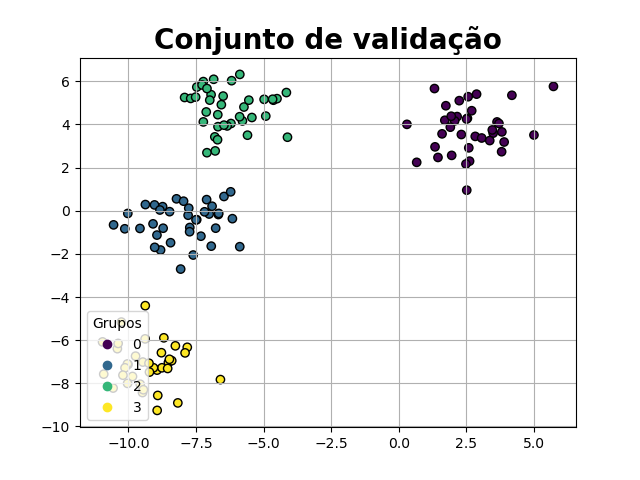
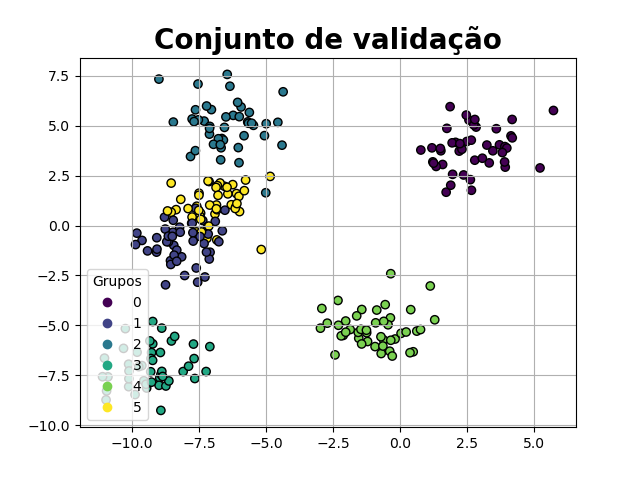
correções do reame, adição do readme c_means

diff --git a/03-C_means/utils.py b/03-C_means/utils.py
@@ -1,19 +1,26 @@
 import numpy as np
 import matplotlib.pyplot as plt
 
+def display_samples_with_centers(input: np.array, centers, membership_matrix: np.array, title, show: bool = False, save_path: str = None):
+    """
+    Exibe os exemplos com os centros de um algoritmo de clustering.
 
-def display_samples_with_centers(
-    input : np.array, 
-    centers, 
-    membership_matrix : np.array,
-    title,
-    show : bool = False,
-    save_path : str = None 
-    ):
+    Parâmetros:
+        - input (np.array): Array com os exemplos.
+        - centers: Array com as coordenadas dos centros.
+        - membership_matrix (np.array): Matriz de pertinência dos exemplos em relação aos centros.
+        - title (str): Título do gráfico.
+        - show (bool): Indica se o gráfico deve ser exibido.
+        - save_path (str): Caminho para salvar a figura.
+
+    Retorna:
+        Nenhum.
+
+    """
     plt.clf()
     _, ax = plt.subplots()
     groups = ax.scatter(input[:, 0], input[:, 1], marker='o', c=membership_matrix, edgecolor='k')
-    ax.scatter(centers[:, 0], centers[:, 1], marker='^',c='r', label="Centros", s=100, edgecolor='k')
+    ax.scatter(centers[:, 0], centers[:, 1], marker='^', c='r', label="Centros", s=100, edgecolor='k')
     plt.title(title, fontsize=20, fontweight="bold")
     ax.grid(True)
     legend2 = ax.legend(loc="upper right")
@@ -26,15 +33,28 @@ def display_samples_with_centers(
     if show:
         plt.show()
 
-def display_samples(input : np.array, output:np.array, title : str, path_to_save : str = None, show : bool = False) -> None:
-    plt.clf()        
-    groups = plt.scatter(input[:,0], input[:,1], marker='o', c=output,edgecolor='k')
-    plt.title(title, fontsize=20, fontweight ="bold")
+def display_samples(input: np.array, output: np.array, title: str, path_to_save: str = None, show: bool = False):
+    """
+    Exibe os exemplos de um algoritmo de clustering.
+
+    Parâmetros:
+        - input (np.array): Array com os exemplos.
+        - output (np.array): Array com as saídas do algoritmo (rótulos).
+        - title (str): Título do gráfico.
+        - path_to_save (str): Caminho para salvar a figura.
+        - show (bool): Indica se o gráfico deve ser exibido.
+
+    Retorna:
+        Nenhum.
+
+    """
+    plt.clf()
+    groups = plt.scatter(input[:, 0], input[:, 1], marker='o', c=output, edgecolor='k')
+    plt.title(title, fontsize=20, fontweight="bold")
     plt.grid(True)
-    plt.legend(*groups.legend_elements(),loc="lower left", title="Grupos")
-    
+    plt.legend(*groups.legend_elements(), loc="lower left", title="Grupos")
+
     if path_to_save is not None:
         plt.savefig(path_to_save)
     if show:
         plt.show()
-

diff --git a/03-C_means/C_means.py b/03-C_means/C_means.py
@@ -284,47 +284,3 @@ class C_Means:
             print(f"\t\tCentro {i+1} : {center}")
         
 
-
-    def show(self, path: str, x: np.array, show: bool) -> None:
-        """
-        Gera e salva visualizações dos dados e dos centros em diferentes épocas.
-
-        Parâmetros:
-        - path (str): Caminho para salvar as visualizações.
-        - x (np.array): Array de entrada com as amostras.
-        - show (bool): Indica se as visualizações devem ser exibidas na tela.
-        """ 
-
-        for epoch in range(len(self.historic['centers']) - 1):
-            plt.clf()
-            _, ax = plt.subplots()
-            groups = ax.scatter(x[:, 0], x[:, 1], marker='o', c=self.historic['membership_matrix'][epoch], edgecolor='k')
-            ax.scatter(self.historic['centers'][epoch][:, 0], self.historic['centers'][epoch][:, 1], marker='^',
-                    c='r', label="Centros", s=100, edgecolor='k')
-            plt.title(f"Época: {epoch}", fontsize=20, fontweight="bold")
-            ax.grid(True)
-            legend2 = ax.legend(loc="upper right")
-            ax.add_artist(legend2)
-            legend1 = ax.legend(*groups.legend_elements(), loc="lower left", title="Grupos")
-            ax.add_artist(legend1)
-
-            plt.savefig(path + "epoch" + str(epoch) + ".png")
-            if show:
-                plt.show()
-
-        plt.clf()
-        y = self.membership_matrix
-        _, ax = plt.subplots()
-        groups = ax.scatter(x[:, 0], x[:, 1], marker='o', c=y, edgecolor='k')
-        ax.scatter(self.centers[:, 0], self.centers[:, 1], label="Centros", marker='^', c='r', s=100, edgecolor='k')
-        plt.title("Resultado não supervisionado" if not self.supervised else "Resultado supervisionado",
-                fontsize=20, fontweight="bold")
-        ax.grid(True)
-        legend2 = ax.legend(loc="upper right")
-        ax.add_artist(legend2)
-        legend1 = ax.legend(*groups.legend_elements(), loc="lower left", title="Grupos")
-        ax.add_artist(legend1)
-        plt.savefig(path + "2_result.png")
-        if show:
-            plt.show()
-

diff --git a/03-C_means/main.py b/03-C_means/main.py
@@ -6,9 +6,9 @@ from utils import display_samples
 from utils import display_samples_with_centers
 
 # Definição da base de dados
-n_centers = 4
+n_centers = 6
 test_percentage = 0.3
-samples = 500
+samples = 900
 desv_pad = 1
 random_seed = 3212
 
@@ -45,7 +45,7 @@ def runs(model):
         input=x_test,
         membership_matrix=Y,
         centers=model.centers,
-        title="Resultado conjunto de testes",
+        title="Validação " + ("supervisionada" if model.supervised else "não supervisionada"),
         show=False,
         save_path="Results/" + ("supervised" if model.supervised else "unsupervised") + "/test"
     )

diff --git a/03-C_means/readme.md b/03-C_means/readme.md
@@ -1,0 +1,120 @@
+# C-Means
+
+O C-Means é um algoritmo de clustering amplamente utilizado na área de aprendizado de máquina e análise de dados. Ele é utilizado para agrupar dados não rotulados em grupos ou clusters com base nas características dos dados.
+
+### Descrição
+
+Esse é um código que implementa o algoritmo C-Means em Python. O algoritmo C-Means é uma técnica de clustering, que divide um conjunto de dados em clusters, de acordo com a similaridade entre os pontos. O algoritmo utiliza a média dos valores dos atributos dos pontos para definir os centros dos clusters.
+
+O arquivo C_means.py contém a implementação da classe C_Means, que possui métodos para realizar o treinamento do modelo e fazer predições. O método fit é responsável por treinar o modelo com base nos dados de entrada. O método predict recebe as coordenadas de um ponto e retorna o índice do centro mais próximo desse ponto. O método predict_group realiza a predição dos grupos (rótulos) para um conjunto de amostras e compara com os rótulos esperados.
+
+O arquivo main.py utiliza a classe C_Means para realizar o treinamento e a visualização dos resultados. Ele gera um conjunto de amostras sintéticas com a função make_blobs do sklearn.datasets e separa essas amostras em conjuntos de treinamento e teste com a função train_test_split do sklearn.model_selection. Em seguida, o código chama a função runs para treinar o modelo e exibir os resultados em gráficos.
+
+Os resultados são exibidos em gráficos usando as bibliotecas matplotlib.pyplot e as funções display_samples e display_samples_with_centers do módulo utils. O código também salva as imagens geradas em arquivos no diretório Results.
+
+No geral, o código implementa o algoritmo C-Means e mostra como utilizá-lo para fazer clustering em um conjunto de dados.
+
+
+O repositório contém a implementação do algoritmo C-Means na linguagem Python. O algoritmo pode ser executado tanto no modo supervisionado quanto no modo não supervisionado. No modo supervisionado, os rótulos dos dados são fornecidos durante o treinamento, enquanto no modo não supervisionado, o algoritmo agrupa os dados sem a necessidade de rótulos.
+
+A implementação inclui as seguintes funcionalidades:
+
+- Treinamento do modelo usando dados de entrada.
+- Predição dos grupos (rótulos) para um conjunto de amostras.
+- Cálculo da acurácia da classificação.
+- Visualização dos resultados em diferentes épocas.
+- Exibição de informações sobre o modelo, como o número de épocas até a convergência e a posição final dos centros.
+
+### Estrutura do Projeto
+
+- `C_means.py`: Este arquivo contém a implementação do algoritmo C-Means. Nele, você pode encontrar a classe C_Means com os métodos necessários para treinar o modelo, fazer previsões, exibir informações sobre o modelo e visualizar os resultados. É o arquivo central do seu algoritmo.
+
+- `main.py`: Este arquivo contém um exemplo de uso do algoritmo C-Means. Nele, você pode gerar dados de amostra aleatórios, separá-los em conjuntos de treinamento e teste e realizar as etapas de treinamento e previsão usando a classe `C_Means` do arquivo `C_means.py`. É um arquivo útil para demonstrar como usar o seu algoritmo em um cenário prático.
+
+- `Results/`: Este diretório é opcional e pode ser usado para armazenar os resultados das execuções do seu algoritmo, como visualizações gráficas dos grupos encontrados ou quaisquer outros dados relevantes.
+
+- `utils.py`: Este arquivo contém as funções auxiliares de exibição de resultados.
+
+
+### Requisitos
+
+- Python
+- matplotlib
+- numpy
+- scikit_learn
+
+### Como Acessar
+
+1. Clone este repositório: git clone https://github.com/Gustavo01rb/Redes_Neurais.git
+2. Navegue até o diretório clonado: cd 03-C_means/
+3. Instale as dependências:
+    * matplotlib->3.5.2
+    * numpy->1.21.5
+    * scikit_learn->1.0.2
+
+~~~
+pip install -r requirements.txt 
+~~~
+>Comando para instalar as dependências
+4. Execute o script `main.py` para executar os testes.
+
+### Uso
+
+1. Importe a classe `C_Means` do arquivo `C_means.py` para o seu código Python:
+
+    ```python
+    from C_means import C_Means
+    ```
+
+2. Crie uma instância do modelo C_Means e defina os parâmetros de acordo com as suas necessidades:
+    ```python
+    model = C_Means(supervised=False, centers=[], max_epoch=10, tol=0.02)
+    ```
+
+3. Treine o modelo usando os dados de entrada:
+    ```python
+    model.fit(x=x_train, y=y_train, n_centers=n_centers)
+    ```
+
+4. Faça previsões para um conjunto de amostras:
+    ```python
+    predictions, errors, accuracy = model.predict_group(x_test, y_test)
+    ```
+5. Exiba informações sobre o modelo e visualize os resultados:
+    ~~~python
+    model.info()
+    ~~~
+
+### Resultados
+
+#### Amostra gerada
+<div align="center">
+    <a href = "Results/samples.png">
+        <img src="Results/samples.png" alt="Amostras" width="300">
+    </a>
+    <a href = "Results/train.png">
+        <img src="Results/train.png" alt="Conjunto de treinamento" width="300">
+    </a>
+    <a href = "Results/test.png" >
+        <img src="Results/test.png" alt="Conjunto de testes" width="300">
+    </a>
+</div>
+
+#### Validação
+<div align="center">
+    <a href = "Results/unsupervised/test/Validação não supervisionada.png">
+        <img src="Results/unsupervised/test/Validação não supervisionada.png" alt="Não supervisionado" width="300">
+    </a>
+    <a href = "Results/test.png">
+        <img src="Results/test.png" alt="Conjunto de testes original" width="300">
+    </a>
+    <a href = "Results/supervised/test/Validação supervisionada.png" >
+        <img src="Results/supervised/test/Validação supervisionada.png" alt="Supervisionado" width="300">
+    </a>
+</div>
+
+### Contribuindo
+Contribuições são bem-vindas! Se você encontrar algum problema, tiver ideias de melhorias ou quiser adicionar novos recursos, fique à vontade para abrir uma issue ou enviar um pull request.
+
+### Licença
+Este projeto está licenciado sob a [MIT License](../LICENSE).

diff --git a/01-Perceptron/Readme.md b/01-Perceptron/Readme.md
@@ -13,7 +13,7 @@ O Perceptron é um modelo de neurônio artificial que recebe entradas, calcula u
 
 ### Dependências
 
-- Python 3
+- Python 
 - numpy
 - pandas
 - scikit-learn

diff --git a/02 - Mlp/Readme.md b/02 - Mlp/Readme.md
@@ -14,7 +14,7 @@ O MLP (Perceptron Multicamadas) é um algoritmo de aprendizado de máquina que c
 
 ### Dependências
 
-- Python 3
+- Python 
 - numpy
 - matplotlib
 
